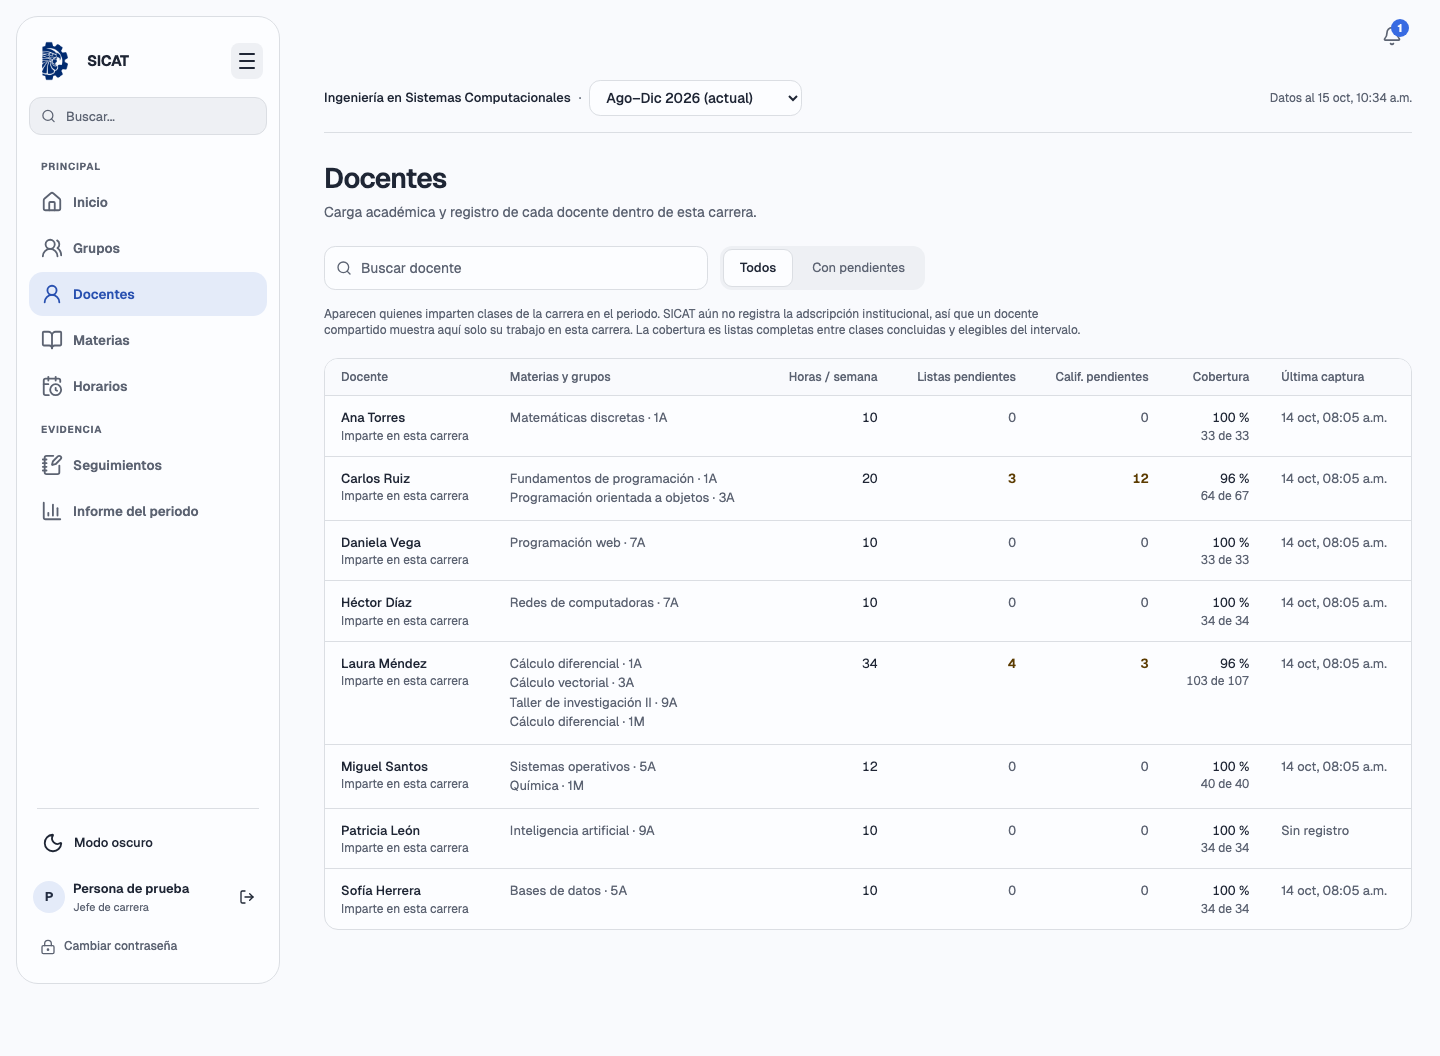
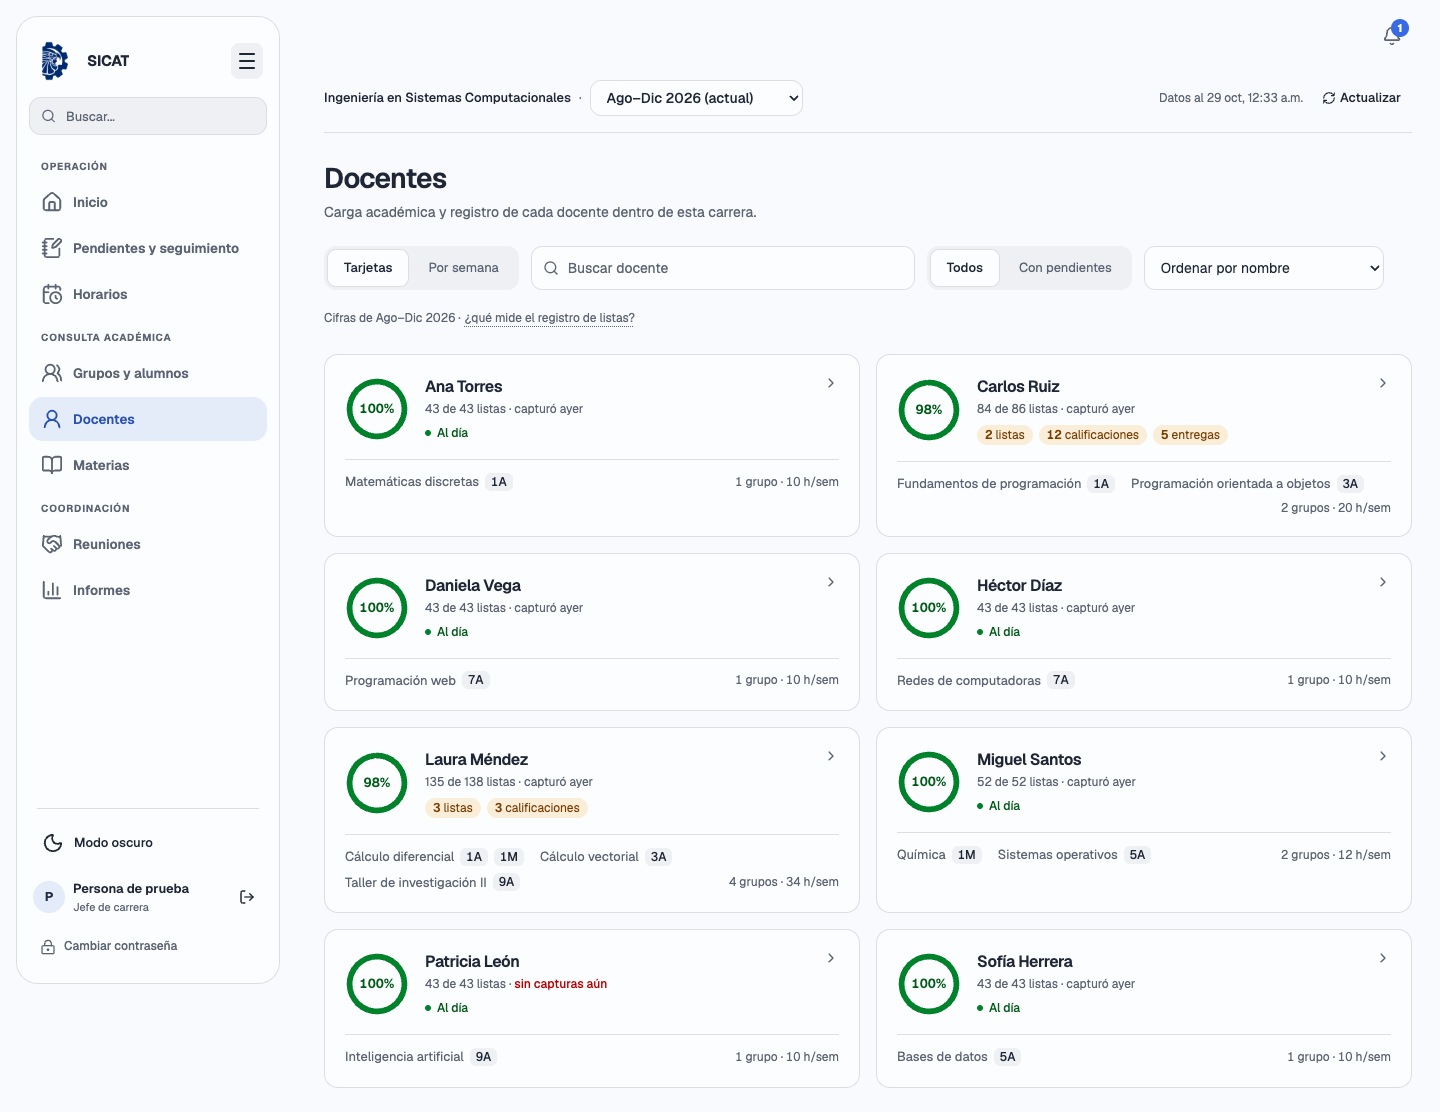
feat(jefatura): tarjetas de docentes con anillo de registro y sin vista Comparar
Quita la tabla «Comparar»; Tarjetas pasa a ser la vista por defecto. Cada
tarjeta muestra el registro de listas como anillo animado con semáforo, los
pendientes sólo cuando existen y la última captura en lenguaje natural.
Toda la tarjeta lleva al detalle; entrada escalonada y hover con
prefers-reduced-motion respetado.

diff --git a/frontend/src/pages/jefe-carrera/JefeDocentes.jsx b/frontend/src/pages/jefe-carrera/JefeDocentes.jsx
@@ -1,15 +1,10 @@
 import { Link, useSearchParams } from 'react-router-dom'
-import { Search } from 'lucide-react'
+import { ChevronRight, Search } from 'lucide-react'
 import { Button } from '@/components/ui/button'
 import { cn } from '@/lib/utils'
-import { fechaHoraCorta, periodoTexto, plural } from './supervision/formato'
+import { claveFecha, haceTiempo, horaCorta, periodoTexto, plural } from './supervision/formato'
 import MapaDocentes from './graficas/MapaDocentes'
-import { JefaturaPage, Segmento, Vacio, linkClass, selectClass } from './supervision/ui'
-
-// «Registro de listas»: listas completas entre clases concluidas con lista esperada (antes «Cobertura»).
-function cobertura(d) {
-  return d.clasesEsperadas ? `${d.cobertura} %` : 'No aplica'
-}
+import { JefaturaPage, Segmento, Vacio, selectClass } from './supervision/ui'
 
 const DEFINICION_REGISTRO = 'Listas completas entre clases ya concluidas con lista esperada. No cuentan suspensiones, clases sin inscritos ni calendarios sin configurar. Es evidencia de captura en SICAT, no de asistencia del docente.'
 
@@ -35,120 +30,115 @@ const ORDENES = {
   cobertura: { label: 'Menor registro de listas primero', comparar: (a, b) => (a.clasesEsperadas ? a.cobertura : 101) - (b.clasesEsperadas ? b.cobertura : 101) },
 }
 
-function Cifra({ label, value, alerta, detalle }) {
+// «Registro de listas»: listas completas entre clases concluidas con lista esperada (antes «Cobertura»).
+const R = 24
+const CIRCUNFERENCIA = 2 * Math.PI * R
+
+// Semáforo del registro: al día ≥ 90 %, rezagado ≥ 50 %, crítico debajo.
+const tonoRegistro = (pct) => (pct == null ? null : pct >= 90 ? 'success' : pct >= 50 ? 'warning' : 'destructive')
+
+/** «hoy, 10:47», «ayer», «hace 3 días»: la frescura importa más que la fecha exacta. */
+function capturaTexto(iso) {
+  const hace = haceTiempo(claveFecha(new Date(iso)))
+  return hace === 'Hoy' ? `hoy, ${horaCorta(iso)}` : hace.toLocaleLowerCase('es-MX')
+}
+
+/** Anillo de registro: el trazo se dibuja al entrar y el porcentaje queda al centro. */
+function AnilloRegistro({ pct }) {
+  const tono = tonoRegistro(pct)
   return (
-    <div className="min-w-0">
-      <dt className="text-xs text-muted-foreground">{label}</dt>
-      <dd className={cn('mt-0.5 text-[0.9375rem] font-semibold tabular-nums', alerta ? 'text-warning-foreground' : 'text-foreground')}>
-        {value}
-        {detalle && <span className="ml-1 text-xs font-normal text-muted-foreground">{detalle}</span>}
-      </dd>
+    <div className="relative size-16 shrink-0">
+      <svg viewBox="0 0 56 56" className="size-full -rotate-90" aria-hidden="true">
+        <circle cx="28" cy="28" r={R} fill="none" strokeWidth="5" className="stroke-muted" />
+        {pct > 0 && (
+          <circle
+            cx="28" cy="28" r={R} fill="none" strokeWidth="5" strokeLinecap="round"
+            className={cn('docente-anillo', `docente-trazo-${tono}`)}
+            style={{ '--vacio': CIRCUNFERENCIA, strokeDasharray: CIRCUNFERENCIA, strokeDashoffset: CIRCUNFERENCIA * (1 - Math.min(pct, 100) / 100) }}
+          />
+        )}
+      </svg>
+      <span className={cn('absolute inset-0 grid place-items-center text-[0.8125rem] font-semibold tabular-nums', tono ? `docente-tono-${tono}` : 'text-muted-foreground')}>
+        <span className="sr-only">Registro de listas: </span>{pct == null ? '—' : `${pct}%`}
+      </span>
     </div>
   )
 }
 
-function TarjetaDocente({ d, j }) {
-  const materias = materiasDe(d.asignaciones)
-  const grupos = d.asignaciones.length
+/** Sólo lo que falta; si no falta nada, una sola marca de «Al día». */
+function Pendientes({ d }) {
+  const items = [
+    [d.listasPendientes, 'lista', 'listas'],
+    [d.calificacionesPendientes, 'calificación', 'calificaciones'],
+    [d.entregasPendientes, 'entrega', 'entregas'],
+  ].filter(([n]) => n > 0)
+  if (!items.length) {
+    return <p className="mt-2 inline-flex items-center gap-1.5 text-xs font-medium text-success-foreground"><span className="size-1.5 rounded-full bg-success" aria-hidden="true" />Al día</p>
+  }
   return (
-    <li className="flex flex-col rounded-[var(--radius-item)] border border-border bg-card p-4">
-      <div className="flex items-start justify-between gap-3">
-        <div className="min-w-0">
+    <ul className="mt-2 flex flex-wrap gap-1.5" aria-label={`Pendientes de ${d.nombre}`}>
+      {items.map(([n, uno, varios]) => (
+        <li key={uno} className="rounded-full bg-warning/15 px-2 py-0.5 text-xs tabular-nums text-warning-foreground dark:bg-warning/20">
+          <span className="font-semibold">{n}</span> {n === 1 ? uno : varios}
+        </li>
+      ))}
+    </ul>
+  )
+}
+
+function TarjetaDocente({ d, j, i }) {
+  const materias = materiasDe(d.asignaciones)
+  const pct = d.tieneMetricas && d.clasesEsperadas ? d.cobertura : null
+  return (
+    <li className="docente-tarjeta relative flex flex-col rounded-[var(--radius-item)] border border-border bg-card p-5" style={{ '--i': i }}>
+      <div className="flex items-center gap-4">
+        <AnilloRegistro pct={pct} />
+        <div className="min-w-0 flex-1">
+          {/* El nombre cubre toda la tarjeta (enlace estirado); los grupos quedan por encima. */}
           {d.periodoReferencia
-            ? <Link className={cn(linkClass, 'text-[0.9375rem] text-foreground')} to={j.to(`/jefe-carrera/docentes/${d.id}`, { periodo: d.periodoReferencia })}>{d.nombre}</Link>
-            : <span className="text-[0.9375rem] font-medium text-foreground">{d.nombre}</span>}
+            ? <Link className="docente-estirado block truncate text-base font-semibold tracking-tight text-foreground outline-none" to={j.to(`/jefe-carrera/docentes/${d.id}`, { periodo: d.periodoReferencia })}>{d.nombre}</Link>
+            : <span className="block truncate text-base font-semibold tracking-tight text-foreground">{d.nombre}</span>}
           <p className="mt-0.5 text-xs text-muted-foreground">
-            {plural(materias.length, 'materia', 'materias')} · {plural(grupos, 'grupo', 'grupos')}
+            {!d.tieneMetricas ? `Sin clases en ${periodoTexto(j.periodo)}` : (
+              <>
+                {d.clasesEsperadas ? `${d.listasCompletas} de ${d.clasesEsperadas} listas` : 'Sin clases concluidas'}
+                {' · '}
+                {d.ultimaCaptura ? `capturó ${capturaTexto(d.ultimaCaptura)}` : <span className="font-medium text-destructive-foreground">sin capturas aún</span>}
+              </>
+            )}
           </p>
+          {d.tieneMetricas && <Pendientes d={d} />}
         </div>
-        <p className="shrink-0 text-right text-xs text-muted-foreground">
-          Última captura
-          <span className="block text-foreground">{d.tieneMetricas ? fechaHoraCorta(d.ultimaCaptura) : '—'}</span>
-        </p>
+        {d.periodoReferencia && <ChevronRight className="docente-flecha size-4 shrink-0 self-start text-muted-foreground" aria-hidden="true" />}
       </div>
 
-      <dl className="mt-3 grid grid-cols-2 gap-x-4 gap-y-2 border-y border-border py-3 sm:grid-cols-4">
-        <Cifra label="Horas / semana" value={d.tieneMetricas ? d.horasSemanales : '—'} />
-        <Cifra label="Listas pendientes" value={d.tieneMetricas ? d.listasPendientes : '—'} alerta={d.listasPendientes > 0} />
-        <Cifra label="Calif. pendientes" value={d.tieneMetricas ? d.calificacionesPendientes : '—'} alerta={d.calificacionesPendientes > 0} />
-        <Cifra
-          label="Registro de listas"
-          value={d.tieneMetricas ? cobertura(d) : '—'}
-          detalle={d.tieneMetricas && d.clasesEsperadas > 0 ? `${d.listasCompletas}/${d.clasesEsperadas}` : null}
-        />
-      </dl>
-
-      <ul className="mt-3 space-y-2 text-[0.8125rem]" aria-label={`Materias de ${d.nombre}`}>
-        {materias.map((m) => (
-          <li key={m.id} className="flex flex-wrap items-baseline gap-x-2 gap-y-1">
-            <span className="min-w-0 text-foreground">{m.nombre}</span>
-            <span className="flex flex-wrap gap-1">
+      <div className="mt-4 flex flex-wrap items-center gap-x-4 gap-y-1.5 border-t border-border pt-3 text-[0.8125rem]">
+        <ul className="contents" aria-label={`Materias de ${d.nombre}`}>
+          {materias.map((m) => (
+            <li key={m.id} className="inline-flex min-w-0 flex-wrap items-center gap-1.5">
+              <span className="min-w-0 text-muted-foreground">{m.nombre}</span>
               {m.grupos.map((g) => {
                 const otroPeriodo = g.periodoConsulta && g.periodoConsulta !== j.periodo
                 // Del periodo consultado, el grupo abre la materia en ese grupo; de otro periodo solo se nombra.
                 return otroPeriodo ? (
                   <span key={g.id} title={`Grupo de ${periodoTexto(g.periodoConsulta)}`} className="rounded-md border border-dashed border-border px-1.5 py-px text-xs tabular-nums text-muted-foreground">
-                    {g.nombre} · {periodoTexto(g.periodoConsulta)}
+                    {g.nombre}<span className="sr-only"> · {periodoTexto(g.periodoConsulta)}</span>
                   </span>
                 ) : (
-                  <Link key={g.id} to={j.toDesde(`/jefe-carrera/materias/${m.id}`, { oferta: g.id })} aria-label={`${m.nombre}, grupo ${g.nombre}`} className={cn(linkClass, 'rounded-md border border-border bg-muted px-1.5 py-px text-xs tabular-nums text-foreground')}>
-                    {g.nombre}
+                  <Link key={g.id} to={j.toDesde(`/jefe-carrera/materias/${m.id}`, { oferta: g.id })} aria-label={`${m.nombre}, grupo ${g.nombre}`} className="group/grupo relative z-[1] rounded-md text-xs font-medium tabular-nums text-foreground focus-visible:outline-none focus-visible:ring-2 focus-visible:ring-ring">
+                    {/* En táctil el enlace crece a 44 px; el chip visible sigue siendo pequeño. */}
+                    <span className="rounded-md bg-muted px-1.5 py-px transition-colors duration-150 group-hover/grupo:bg-accent group-hover/grupo:text-primary-ink">{g.nombre}</span>
                   </Link>
                 )
               })}
-            </span>
-          </li>
-        ))}
-      </ul>
+            </li>
+          ))}
+        </ul>
+        <span className="ml-auto text-xs tabular-nums text-muted-foreground">
+          {plural(d.asignaciones.length, 'grupo', 'grupos')}{d.tieneMetricas && ` · ${d.horasSemanales} h/sem`}
+        </span>
+      </div>
     </li>
-  )
-}
-
-/** Comparación compacta: una fila por docente con las mismas cifras que su tarjeta. */
-function TablaDocentes({ filas, j }) {
-  const celda = (d, valor, alerta) => (
-    <td className={cn('px-3 py-3 text-right tabular-nums', !d.tieneMetricas ? 'text-muted-foreground' : alerta ? 'font-semibold text-warning-foreground' : 'text-foreground')}>{d.tieneMetricas ? valor : '—'}</td>
-  )
-  return (
-    <div role="region" tabIndex={0} aria-label="Comparación de docentes" className="mt-5 overflow-x-auto rounded-[var(--radius-item)] border border-border bg-card focus-visible:outline-none focus-visible:ring-3 focus-visible:ring-ring/40">
-      <table className="w-full min-w-[860px] border-collapse text-[0.8125rem]">
-        <thead>
-          <tr className="border-b border-border bg-background text-left text-xs text-muted-foreground">
-            <th scope="col" className="sticky left-0 z-[1] bg-background px-4 py-2.5 font-medium">Docente</th>
-            <th scope="col" className="px-3 py-2.5 font-medium">Carga</th>
-            <th scope="col" className="px-3 py-2.5 text-right font-medium">Horas / semana</th>
-            <th scope="col" className="px-3 py-2.5 text-right font-medium">Listas pendientes</th>
-            <th scope="col" className="px-3 py-2.5 text-right font-medium">Calif. pendientes</th>
-            <th scope="col" className="px-3 py-2.5 text-right font-medium">Entregas por revisar</th>
-            <th scope="col" className="px-3 py-2.5 text-right font-medium">Registro de listas</th>
-            <th scope="col" className="px-4 py-2.5 font-medium">Última captura</th>
-          </tr>
-        </thead>
-        <tbody>
-          {filas.map((d) => {
-            const materias = materiasDe(d.asignaciones)
-            return (
-              <tr key={d.id} className="border-b border-border last:border-b-0">
-                <th scope="row" className="sticky left-0 z-[1] bg-card px-4 py-3 text-left font-medium">
-                  {d.periodoReferencia
-                    ? <Link className={cn(linkClass, 'text-foreground')} to={j.to(`/jefe-carrera/docentes/${d.id}`, { periodo: d.periodoReferencia })}>{d.nombre}</Link>
-                    : <span className="text-foreground">{d.nombre}</span>}
-                </th>
-                <td className="px-3 py-3 text-muted-foreground">{plural(materias.length, 'materia', 'materias')} · {plural(d.asignaciones.length, 'grupo', 'grupos')}</td>
-                {celda(d, d.horasSemanales)}
-                {celda(d, d.listasPendientes, d.listasPendientes > 0)}
-                {celda(d, d.calificacionesPendientes, d.calificacionesPendientes > 0)}
-                {celda(d, d.entregasPendientes, d.entregasPendientes > 0)}
-                <td className="px-3 py-3 text-right tabular-nums">
-                  {d.tieneMetricas ? <>{cobertura(d)}{d.clasesEsperadas > 0 && <span className="block text-xs text-muted-foreground">{d.listasCompletas} de {d.clasesEsperadas}</span>}</> : <span className="text-muted-foreground">—</span>}
-                </td>
-                <td className="px-4 py-3 text-muted-foreground">{d.tieneMetricas ? fechaHoraCorta(d.ultimaCaptura) : '—'}</td>
-              </tr>
-            )
-          })}
-        </tbody>
-      </table>
-    </div>
   )
 }
 
@@ -157,7 +147,7 @@ export default function JefeDocentes() {
   const filtro = params.get('filtro') === 'pendientes' ? 'pendientes' : ''
   const busqueda = params.get('q') ?? ''
   const orden = ORDENES[params.get('orden')] ? params.get('orden') : 'nombre'
-  const vista = ['semanas', 'tarjetas'].includes(params.get('vista')) ? params.get('vista') : 'tabla'
+  const vista = params.get('vista') === 'semanas' ? 'semanas' : 'tarjetas'
   const set = (k, v) => { const n = new URLSearchParams(params); if (v) n.set(k, v); else n.delete(k); setParams(n, { replace: true }) }
 
   return (
@@ -192,7 +182,7 @@ export default function JefeDocentes() {
         return (
           <>
             <div className="mt-6 flex flex-wrap items-center gap-3">
-              <Segmento label="Vista" value={vista} onChange={(v) => set('vista', v === 'tabla' ? '' : v)} options={[{ value: 'tabla', label: 'Comparar' }, { value: 'tarjetas', label: 'Tarjetas' }, { value: 'semanas', label: 'Por semana' }]} />
+              <Segmento label="Vista" value={vista} onChange={(v) => set('vista', v === 'tarjetas' ? '' : v)} options={[{ value: 'tarjetas', label: 'Tarjetas' }, { value: 'semanas', label: 'Por semana' }]} />
               <label className="relative min-w-[220px] flex-1 sm:max-w-sm">
                 <span className="sr-only">Buscar docente</span>
                 <Search className="pointer-events-none absolute left-3 top-1/2 size-4 -translate-y-1/2 text-muted-foreground" aria-hidden="true" />
@@ -209,16 +199,15 @@ export default function JefeDocentes() {
             {(filtro || q) && (
               <p role="status" className="mt-3 flex flex-wrap items-center gap-x-3 text-xs text-muted-foreground">
                 Mostrando {filas.length} de {docentesActivos.length} docentes · {[filtro && 'con pendientes', q && `nombre con «${busqueda.trim()}»`].filter(Boolean).join(' · ')}
-                <Button variant="ghost" size="sm" className="max-md:min-h-11" onClick={() => setParams(new URLSearchParams({ carrera: j.carreraId, periodo: j.periodo, ...(vista !== 'tabla' ? { vista } : {}), ...(orden !== 'nombre' ? { orden } : {}) }), { replace: true })}>Quitar filtros</Button>
+                <Button variant="ghost" size="sm" className="max-md:min-h-11" onClick={() => setParams(new URLSearchParams({ carrera: j.carreraId, periodo: j.periodo, ...(vista !== 'tarjetas' ? { vista } : {}), ...(orden !== 'nombre' ? { orden } : {}) }), { replace: true })}>Quitar filtros</Button>
               </p>
             )}
-            <div className="mt-3 max-w-3xl text-xs text-muted-foreground">
-              <p>Quienes tienen materias en grupos activos de la carrera. Las cifras son de {periodoTexto(j.periodo)}{vista === 'tarjetas' && '; los grupos con borde punteado son de otro periodo'}.</p>
-              <details className="mt-1">
-                <summary className="inline-flex min-h-11 cursor-pointer items-center rounded-md text-foreground focus-visible:outline-none focus-visible:ring-2 focus-visible:ring-ring md:min-h-8">¿Qué mide «Registro de listas»?</summary>
-                <p className="pb-2 leading-relaxed">{DEFINICION_REGISTRO}</p>
-              </details>
-            </div>
+            <details className="mt-3 text-xs text-muted-foreground">
+              <summary className="inline-flex min-h-11 cursor-pointer list-none items-center gap-1 rounded-md hover:text-foreground focus-visible:outline-none focus-visible:ring-2 focus-visible:ring-ring md:min-h-8">
+                Cifras de {periodoTexto(j.periodo)} · <span className="underline decoration-dotted underline-offset-4">¿qué mide el registro de listas?</span>
+              </summary>
+              <p className="max-w-2xl pb-2 leading-relaxed">{DEFINICION_REGISTRO} Los grupos con borde punteado son de otro periodo.</p>
+            </details>
 
             {!docentesActivos.length ? (
               <Vacio titulo="Sin docentes asignados">Ninguna materia de los grupos activos de la carrera tiene docente.</Vacio>
@@ -226,11 +215,9 @@ export default function JefeDocentes() {
               <Vacio titulo={filtro ? 'Sin pendientes detectados' : 'Ningún docente coincide'} accion={<Button variant="outline" onClick={() => setParams(new URLSearchParams({ carrera: j.carreraId, periodo: j.periodo }), { replace: true })}>Restablecer filtros</Button>} />
             ) : vista === 'semanas' ? (
               <MapaDocentes j={j} resumen={resumen} docentes={filas} />
-            ) : vista === 'tabla' ? (
-              <TablaDocentes filas={filas} j={j} />
             ) : (
-              <ul aria-label="Docentes de la carrera" className="mt-5 grid gap-3 md:grid-cols-2 2xl:grid-cols-3">
-                {filas.map((d) => <TarjetaDocente key={d.id} d={d} j={j} />)}
+              <ul aria-label="Docentes de la carrera" className="mt-5 grid gap-4 md:grid-cols-2 2xl:grid-cols-3">
+                {filas.map((d, i) => <TarjetaDocente key={d.id} d={d} j={j} i={i} />)}
               </ul>
             )}
           </>

diff --git a/frontend/src/index.css b/frontend/src/index.css
@@ -283,6 +283,43 @@
 @keyframes tarea-aparecer { from { opacity: 0; transform: translateY(6px); } }
 .tarea-aparecer { animation: tarea-aparecer 260ms var(--ease) backwards; }
 
+/* Tarjetas de docentes (jefatura): entran escalonadas, el anillo de registro se
+   dibuja desde vacío y, con puntero real, la tarjeta se eleva apenas. */
+@keyframes docente-entrar { from { opacity: 0; transform: translateY(10px); } }
+@keyframes docente-trazar { from { stroke-dashoffset: var(--vacio); } }
+.docente-tarjeta {
+  animation: docente-entrar 420ms var(--ease) backwards;
+  animation-delay: calc(min(var(--i, 0), 8) * 45ms);
+  transition: border-color var(--t) var(--ease), box-shadow var(--t) var(--ease), transform var(--t) var(--ease);
+}
+.docente-anillo {
+  animation: docente-trazar 1000ms cubic-bezier(.16, 1, .3, 1) backwards;
+  animation-delay: calc(min(var(--i, 0), 8) * 45ms + 180ms);
+}
+.docente-estirado::after { content: ''; position: absolute; inset: 0; border-radius: inherit; }
+.docente-tarjeta:has(.docente-estirado:focus-visible) { outline: 3px solid color-mix(in oklch, var(--ring) 45%, transparent); outline-offset: 2px; }
+.docente-flecha { transition: transform var(--t) var(--ease), color var(--t) var(--ease); }
+@media (hover: hover) and (pointer: fine) {
+  .docente-tarjeta:has(.docente-estirado:hover) {
+    border-color: color-mix(in oklch, var(--primary) 35%, var(--border));
+    box-shadow: 0 1px 2px oklch(0.2 0.03 264 / 0.04), 0 8px 24px -8px oklch(0.2 0.03 264 / 0.12);
+    transform: translateY(-2px);
+  }
+  .docente-tarjeta:has(.docente-estirado:hover) .docente-flecha { color: var(--primary-ink); transform: translateX(3px); }
+}
+.docente-tarjeta:has(.docente-estirado:active) { transform: scale(0.995); }
+.docente-tono-success { color: var(--success-foreground); }
+.docente-tono-warning { color: var(--warning-foreground); }
+.docente-tono-destructive { color: var(--destructive-foreground); }
+.docente-trazo-success { stroke: var(--success); }
+.docente-trazo-warning { stroke: var(--warning); }
+.docente-trazo-destructive { stroke: var(--destructive); }
+@media (prefers-reduced-motion: reduce) {
+  .docente-tarjeta, .docente-anillo { animation: none; }
+  .docente-tarjeta, .docente-flecha { transition: none; }
+  .docente-tarjeta:has(.docente-estirado:hover) { transform: none; }
+}
+
 .sidebar { position: fixed; top: 16px; left: 16px; bottom: 16px; width: var(--sidebar-w); display: flex; flex-direction: column; gap: 8px; padding: 18px 12px; border-radius: var(--radius-card); z-index: 100; overflow: hidden; background: var(--card); border: 1px solid var(--border); }
 /* Desktop changes density immediately; only the mobile drawer translates. */
 .sidebar.collapsed { width: var(--sidebar-collapsed); }

diff --git a/frontend/tests/e2e/jefatura.spec.js b/frontend/tests/e2e/jefatura.spec.js
@@ -115,16 +115,15 @@ test.describe('jefatura de carrera', () => {
     await mockJefatura(page)
     await page.goto('/jefe-carrera/docentes')
     await expect(page.getByRole('heading', { level: 1, name: 'Docentes' })).toBeVisible()
-    // Comparación por defecto: una fila por docente con sus pendientes.
-    const comparar = page.getByRole('region', { name: 'Comparación de docentes' })
-    await expect(comparar.getByRole('columnheader', { name: 'Registro de listas' })).toBeVisible()
-    await expect(comparar.getByRole('row').filter({ hasText: 'Carlos Ruiz' }).getByRole('cell', { name: '12', exact: true })).toBeVisible()
-    await page.screenshot({ path: 'audit/jefatura-docentes-tabla.png', fullPage: true })
-    expect(await axe(page)).toEqual([])
-    await page.getByRole('button', { name: 'Tarjetas' }).click()
-    const tarjeta = page.getByRole('list', { name: 'Docentes de la carrera' }).getByRole('listitem').filter({ has: page.getByRole('link', { name: 'Laura Méndez' }) })
+    // Tarjetas por defecto: ya no existe la vista «Comparar».
+    await expect(page.getByRole('button', { name: 'Comparar' })).toHaveCount(0)
+    const lista = page.getByRole('list', { name: 'Docentes de la carrera' })
+    const carlos = lista.getByRole('listitem').filter({ has: page.getByRole('link', { name: 'Carlos Ruiz' }) })
+    await expect(carlos.getByText('Registro de listas: 98%')).toBeAttached()
+    await expect(carlos.getByRole('list', { name: 'Pendientes de Carlos Ruiz' }).getByText('12 calificaciones')).toBeVisible()
+    const tarjeta = lista.getByRole('listitem').filter({ has: page.getByRole('link', { name: 'Laura Méndez' }) })
     await expect(tarjeta.getByRole('list', { name: 'Materias de Laura Méndez' })).toBeVisible()
-    await expect(tarjeta.getByText('Horas / semana')).toBeVisible()
+    await expect(tarjeta.getByText(/34 h\/sem/)).toBeVisible()
     expect(await sinDesborde(page)).toBe(true)
     await page.screenshot({ path: 'audit/jefatura-docentes.png', fullPage: true })
     expect(await axe(page)).toEqual([])
